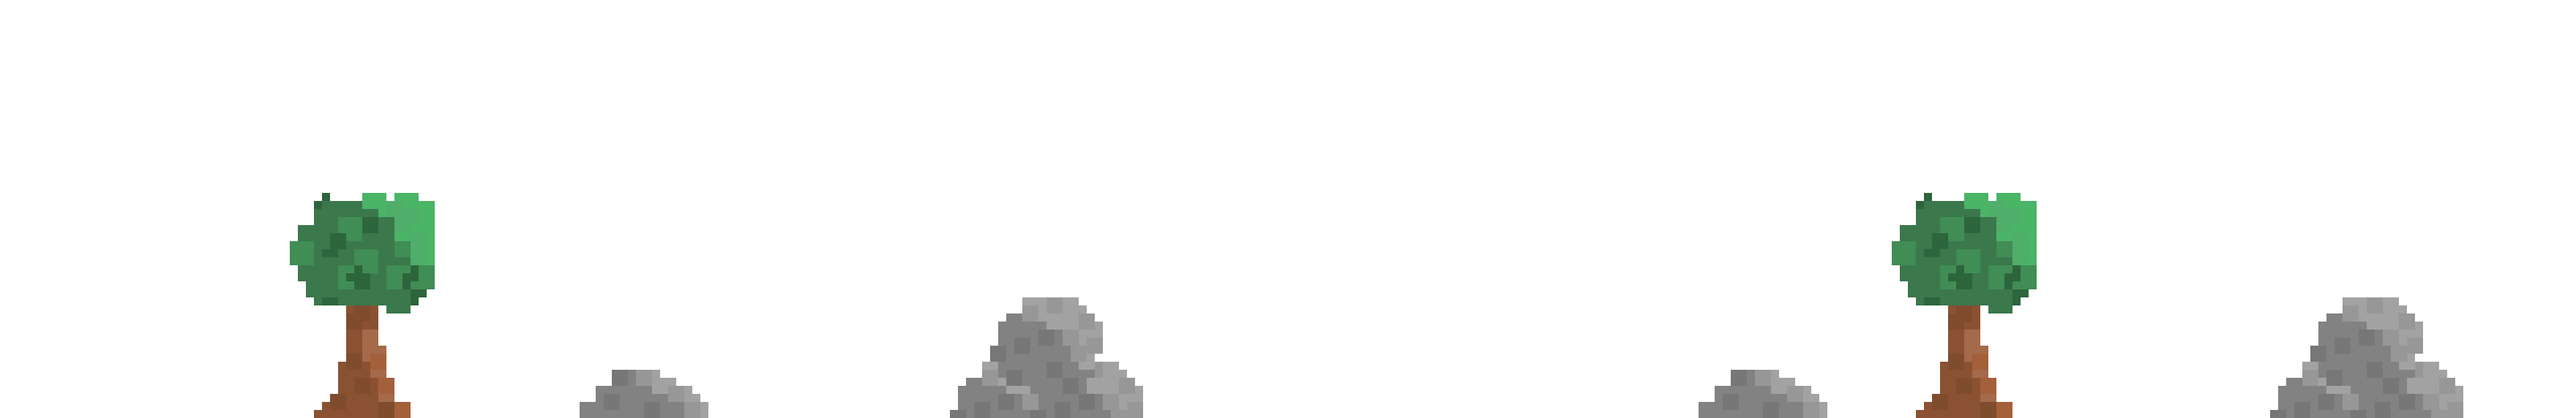
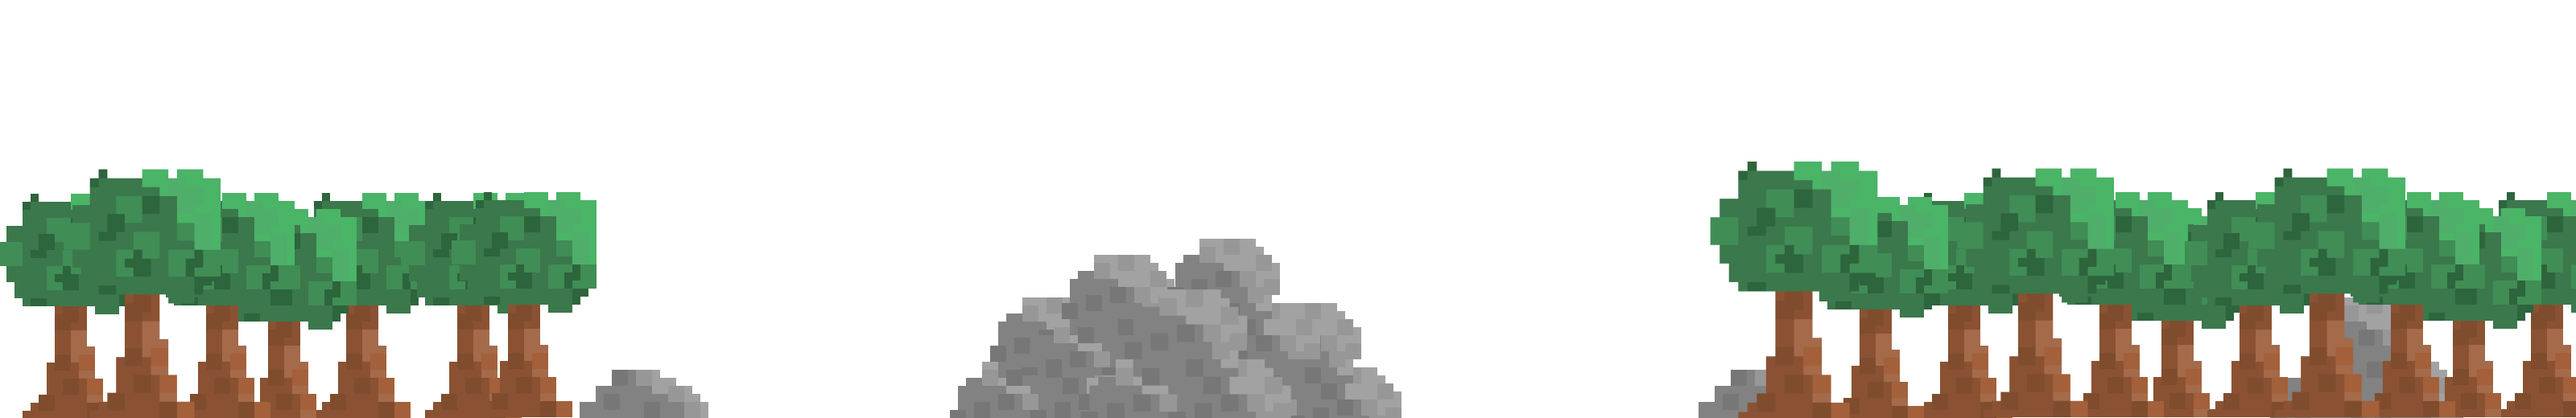
final as of now

Changed region(s): [[0.6562, 0.3692, 1.0, 1.0], [0.0, 0.4, 0.25, 1.0], [0.4062, 0.5538, 0.5625, 1.0]]

diff --git a/src/ArcadeFlyerGame.cs b/src/ArcadeFlyerGame.cs
@@ -15,7 +15,7 @@ namespace ArcadeFlyer2D
         private SpriteBatch spriteBatch;
 
         // The player
-        private Player player;
+        public Player player;
 
 
         private List<Projectile> projectiles;
@@ -37,9 +37,12 @@ namespace ArcadeFlyer2D
         private int coinCount;
         private Target target;
         public List<Archer> archers;
+        public bool gameEnd = false;
         // Screen width
         private int screenWidth = 1600;
         SpawnManager spawnManager;
+        private Sprite tree1;
+        private Sprite tree2;
         public int ScreenWidth
         {
             get { return screenWidth; }
@@ -76,7 +79,7 @@ namespace ArcadeFlyer2D
             IsMouseVisible = true;
 
             // Initialize the player to be in the top left
-            player = new Player(this, new Vector2(0.0f, 175), new Vector2(ScreenWidth/2, screenHeight/2), Direction.Right);
+            player = new Player(this, new Vector2(780, 175), new Vector2(ScreenWidth/2, screenHeight/2), Direction.Right);
 
             // Initialize an enemy to be on the right side
 
@@ -86,17 +89,21 @@ namespace ArcadeFlyer2D
             bgSky = new Background(this, new Vector2(screenWidth, screenHeight/2), "BackgroundSky", new Vector2(1600, 450), Direction.Right);
             coins = new List<Coin>();
             interactables = new List<Interactable>();
-            treeO = new Interactable(this, new Vector2(100, 240), Direction.Right);
+            treeO = new Interactable(this, new Vector2(780, 240), Direction.Right);
             interactables.Add(treeO);
             enemies = new List<Enemy> ();
-            enemy = new Enemy(this, new Vector2(-10, 392), Direction.Right);
-            enemies.Add(enemy);
+            //enemy = new Enemy(this, new Vector2(-10, 392), Direction.Right);
+            //enemies.Add(enemy);
             archer = new Archer(this, new Vector2(1000, 408), Direction.Right);
             archers = new List<Archer>();
             archers.Add(archer);
             coinCount = 0;
-            spawnManager = new SpawnManager(this, 10);
+            spawnManager = new SpawnManager(this, 5);
             target = new Target(this, new Vector2(0,460), Direction.Right);
+            tree1 = new Sprite(new Vector2(-140,240), Direction.Right);
+            tree1.SpriteImage = Content.Load<Texture2D>("Tree");
+            tree2 = new Sprite(new Vector2(1560,240), Direction.Right);
+            tree2.SpriteImage = Content.Load<Texture2D>("Tree");
         }
 
         // Initialize
@@ -122,13 +129,30 @@ namespace ArcadeFlyer2D
             // Update base game
             base.Update(gameTime);
             // Update the components
+            player.Update(gameTime);
             spawnManager.Update(gameTime);
-            archer.Update(gameTime);
             for (int i = enemies.Count -1; i >= 0; i--)
             {
+                if(enemies[i].Overlap(player))
+                {
+                    gameEnd = true;
+                }
+                enemies[i].speed = spawnManager.wave*.75f;
                 enemies[i].Update(gameTime);
+                for (int k = archers.Count -1; k >= 0; k--)
+                {
+                    if(enemies[i].Overlap(archers[k]))
+                    {
+                        archers.Remove(archers[k]);
+                    }
+                }
+                
             }
-            player.Update(gameTime);
+
+            for (int i = archers.Count -1; i >= 0; i--)
+            {
+                archers[i].Update(gameTime);
+            }
             bgGround.Update(gameTime);
             bgFoliage.Update(gameTime);
             bgSky.Update(gameTime);
@@ -139,6 +163,7 @@ namespace ArcadeFlyer2D
                 if(player.upPressed && coinCount>=inter.cost)
                 {
                     inter.Upgrade();
+                    coinCount -= inter.cost;
                 }
                 if(inter.Overlap(player))
                 {
@@ -177,6 +202,11 @@ namespace ArcadeFlyer2D
                         }
                     }
             }
+            if(gameEnd)
+            {
+                Console.WriteLine("game over");
+                return;
+            }
         }
         // Draw everything in the game
         protected override void Draw(GameTime gameTime)
@@ -190,7 +220,6 @@ namespace ArcadeFlyer2D
             bgSky.Draw(gameTime, spriteBatch, player.Position, 0.3f);
             bgFoliage.Draw(gameTime, spriteBatch, player.Position, 0.8f);
             // Draw the components
-            player.Draw(gameTime, spriteBatch, new Vector2(screenWidth/2, screenHeight/2-42));
 
             foreach (Projectile p in projectiles)
             {
@@ -208,14 +237,21 @@ namespace ArcadeFlyer2D
             }
             foreach (Enemy e in enemies)
             {
-                e.Draw(gameTime, spriteBatch, player.Position - new Vector2(ScreenWidth/2, screenHeight/2));
+                e.Draw(gameTime, spriteBatch, player.Position - new Vector2(ScreenWidth/2, screenHeight/2), e.Direction, e.frameIndex);
             }
-            archer.Draw(gameTime, spriteBatch, player.Position - new Vector2(ScreenWidth/2, screenHeight/2), archer.Direction, archer.frameIndex);
+            foreach (Archer a in archers)
+            {
+                a.Draw(gameTime, spriteBatch, player.Position - new Vector2(ScreenWidth/2, screenHeight/2), a.Direction, a.frameIndex);
+            }
             if(player.drawTarget)
             {
                 target.Draw(gameTime, spriteBatch, player.Position);
             }
-            spriteBatch.DrawString(textFont, "Coins: "+coinCount, new Vector2(0,0), Color.Blue);
+            player.Draw(gameTime, spriteBatch, new Vector2(screenWidth/2, screenHeight/2-42));
+            tree1.Draw(gameTime, spriteBatch, player.Position - new Vector2(ScreenWidth/2, screenHeight/2));
+            tree2.Draw(gameTime, spriteBatch, player.Position - new Vector2(ScreenWidth/2, screenHeight/2));
+            spriteBatch.DrawString(textFont, "Coins: "+coinCount, new Vector2(0,0), Color.Black);
+            spriteBatch.DrawString(textFont, "wave: "+spawnManager.wave, new Vector2(0,30), Color.Black);
             // End batch draw
             spriteBatch.End();
         }

diff --git a/src/Base classes/SpawnManager.cs b/src/Base classes/SpawnManager.cs
@@ -10,41 +10,57 @@ namespace ArcadeFlyer2D
         private ArcadeFlyerGame root;
         private float targetPosition;
         private int maxEntities;
+        private int currentEntities = 0;
         private Random spawnRandom;
-        public int wave;
+        public int wave = 1;
         public SpawnManager(ArcadeFlyerGame root, int maxEntities)
         {
             this.root = root;
-            spawnTimer = new Timer(10.0f);
+            spawnTimer = new Timer(15/maxEntities);
             this.maxEntities = maxEntities;
             spawnRandom = new Random();
         }
         public void Update(GameTime gameTime)
         {
-                if(!spawnTimer.Active && root.enemies.Count < maxEntities)
+            if(currentEntities<maxEntities)
+            {
+                if(!spawnTimer.Active)
                 {
                     float rand = (float)spawnRandom.Next(1, 3);
+                    Direction tempDirection;
                     if(rand==1)
                     {
                         rand = -1000;
+                        tempDirection = Direction.Left;
                     }
                     else
                     {
                         rand = 2500;
+                        tempDirection = Direction.Right;
                     }
-                    Console.WriteLine(rand);
-                    root.enemies.Add(new Enemy(root, new Vector2(rand, 392), Direction.Right));
+                    root.enemies.Add(new Enemy(root, new Vector2(rand, 408), tempDirection));
+                    currentEntities++;
+                    spawnTimer = new Timer(15/maxEntities);
                     spawnTimer.StartTimer();
                 }
                 else
                 {
                     spawnTimer.update(gameTime);
                 }
+            }
+            else
+            {
+                if(root.enemies.Count == 0)
+                {
+                    newWave();
+                }
+            }
         }
         public void newWave()
         {
             wave++;
-            maxEntities += (int)maxEntities/2;
+            maxEntities += (int)maxEntities/4;
+            currentEntities = 0;
         }
     }
 }

diff --git a/src/Player.cs b/src/Player.cs
@@ -49,13 +49,13 @@ namespace ArcadeFlyer2D
         private void HandleInput(KeyboardState currentKeyboardState, GameTime gameTime, MouseState mouseState)
         {
             // Get all the key states
-            bool upKeyPressed = currentKeyboardState.IsKeyDown(Keys.Up);
-            bool downKeyPressed = currentKeyboardState.IsKeyDown(Keys.Down);
-            bool leftKeyPressed = currentKeyboardState.IsKeyDown(Keys.Left);
-            bool rightKeyPressed = currentKeyboardState.IsKeyDown(Keys.Right);
+            bool upKeyPressed = currentKeyboardState.IsKeyDown(Keys.W);
+            bool downKeyPressed = currentKeyboardState.IsKeyDown(Keys.S);
+            bool leftKeyPressed = currentKeyboardState.IsKeyDown(Keys.A);
+            bool rightKeyPressed = currentKeyboardState.IsKeyDown(Keys.D);
             bool spaceKeyPressed = currentKeyboardState.IsKeyDown(Keys.Space);
             bool spaceKeyUp = currentKeyboardState.IsKeyUp(Keys.Space);
-            bool upKeyUp = currentKeyboardState.IsKeyUp(Keys.Up);
+            bool upKeyUp = currentKeyboardState.IsKeyUp(Keys.W);
             bool isMouseDown = mouseState.LeftButton == ButtonState.Pressed;
             bool isMouseUp = mouseState.LeftButton == ButtonState.Released;
             // If Up is pressed, decrease position Y
@@ -63,7 +63,6 @@ namespace ArcadeFlyer2D
             {
                 isUp2 = false;
                 upPressed = true;
-                Console.WriteLine("up was pressed");
                 //position.Y -= movementSpeed;
             }
             else
@@ -100,11 +99,13 @@ namespace ArcadeFlyer2D
             // If Left is pressed, decrease position X
             if (leftKeyPressed)
             {
+                
                 if(position.X - movementSpeed>=0)
                 {
                     position.X -= movementSpeed;
                     animationTimer.update(gameTime);
                 }
+                
                 direction = Direction.Left;
             }
             

diff --git a/src/Base classes/Pathfinder.cs b/src/Base classes/Pathfinder.cs
@@ -13,12 +13,15 @@ namespace ArcadeFlyer2D
         public Random pathfinderRandom;
         public float speed = 1f;
         public float targetPosition;
+                public int frameIndex = 0;
+        private Timer animationTimer;
         public Pathfinder(Vector2 position, ArcadeFlyerGame root, Direction direction) : base(position, direction)
         {
             this.position = position;
             movementTimer = new Timer(5.0f);
             pathfinderRandom = new Random();
             targetPosition = position.X;
+            animationTimer = new Timer(0.2f);
             this.root = root;
         }
         public virtual void Update(GameTime gameTime)
@@ -42,7 +45,7 @@ namespace ArcadeFlyer2D
             else
             {
             */
-                if(position.X>root.archer.position.X)
+                if(position.X>root.player.position.X)
                     {
                         position.X -= speed;
                     }
@@ -50,7 +53,20 @@ namespace ArcadeFlyer2D
                     {
                         position.X += speed;
                     }
+                    animationTimer.update(gameTime);
+                if(!animationTimer.Active)
+                {
+                    animationTimer.StartTimer();
+                    if(frameIndex==2)
+                    {
+                        frameIndex = 0;
+                    }
+                    else
+                    {
+                        frameIndex++;
+                    }   
             //}
+                }
         }
     }
 }

diff --git a/src/Base classes/Interactable.cs b/src/Base classes/Interactable.cs
@@ -6,7 +6,7 @@ namespace ArcadeFlyer2D
     class Interactable : Sprite
     {
         private ArcadeFlyerGame root;
-        public int cost = 0;
+        public int cost = 1;
         private int level;
         public Interactable(ArcadeFlyerGame root, Vector2 position, Direction direction) : base(position, direction)
         {
@@ -17,7 +17,7 @@ namespace ArcadeFlyer2D
 
         public void LoadContent()
         {
-            this.SpriteImage = root.Content.Load<Texture2D>("Tree");
+            this.SpriteImage = root.Content.Load<Texture2D>("CenterTree");
         }
 
         public void Update(GameTime gameTime)
@@ -28,6 +28,9 @@ namespace ArcadeFlyer2D
         public void Upgrade()
         {
             level++;
+            cost = level*2;
+            Archer a = new Archer(root, new Vector2(position.X, 408), Direction.Right);
+            root.archers.Add(a);
         }
     }
 }

diff --git a/src/Target.cs b/src/Target.cs
@@ -12,15 +12,14 @@ namespace ArcadeFlyer2D
         public Target(ArcadeFlyerGame root, Vector2 position, Direction direction) : base(position, direction)
         {
             this.position = position;
-            this.SpriteWidth = 32.0f;
+            this.SpriteWidth = 64.0f;
             this.root = root;
             LoadContent();
         }
 
         public void LoadContent()
         {
-            this.SpriteImage = root.Content.Load<Texture2D>("PlayerFire");
+            this.SpriteImage = root.Content.Load<Texture2D>("Target");
         }
-
     }
 }
